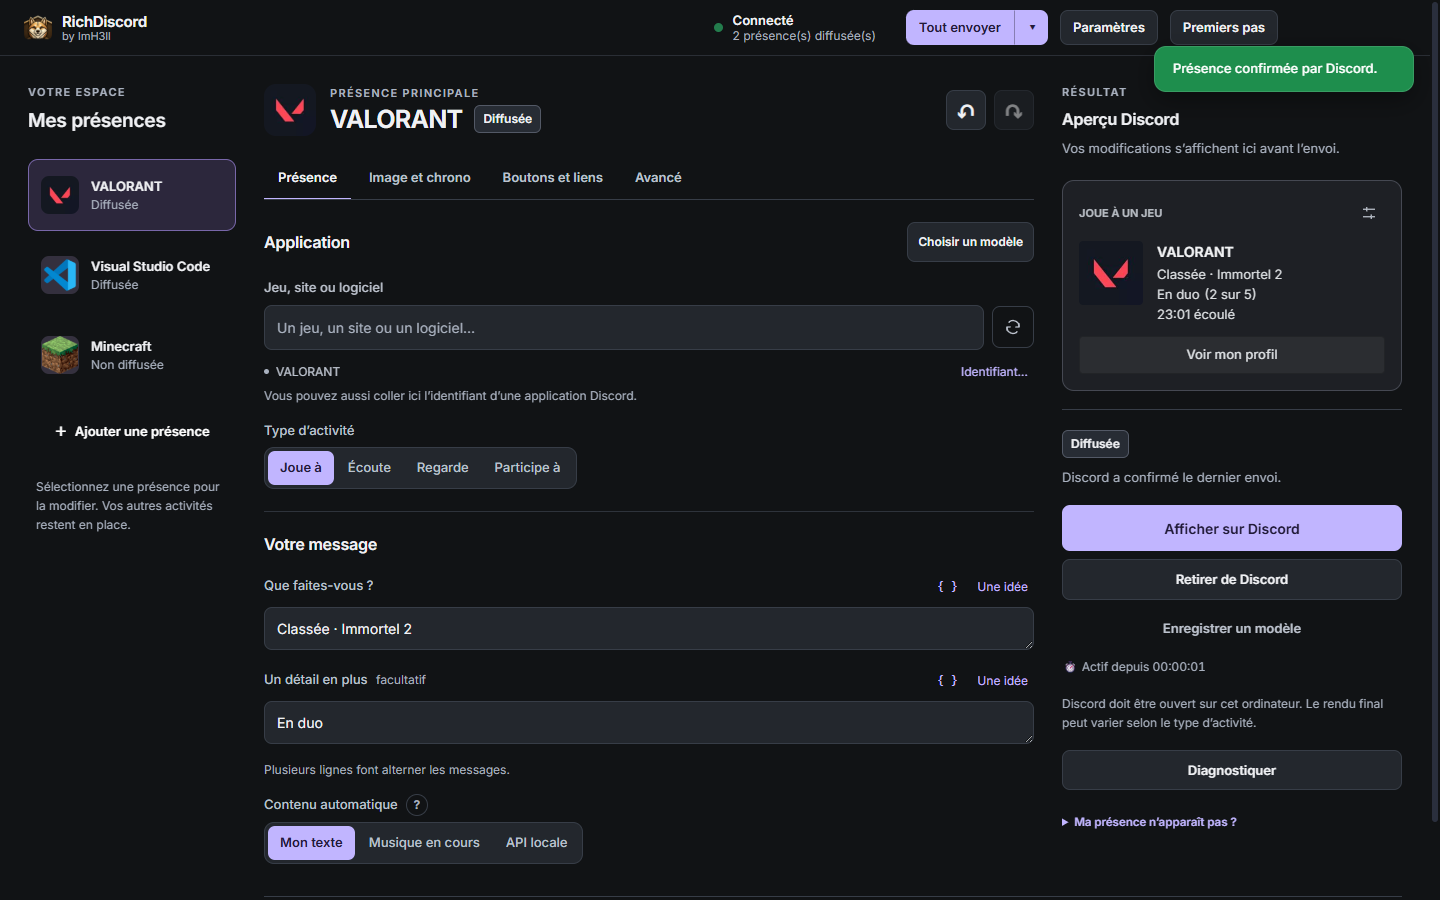
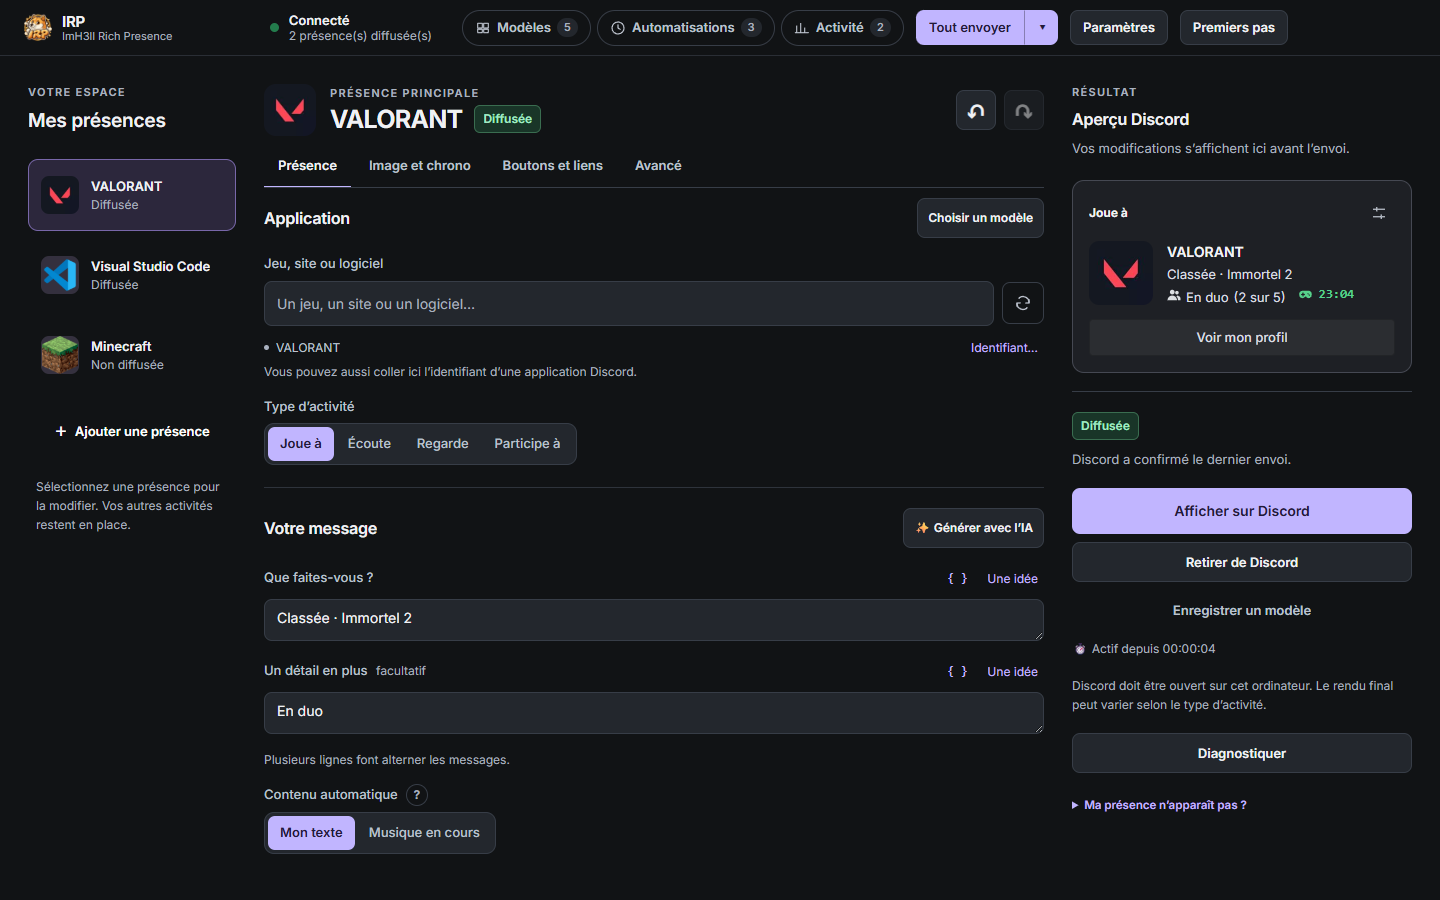
IRP 1.4.0 : nouvelle page de présentation et captures
Nouveau nom et logo, page réécrite (plus de catalogue de services ni de
modèles livrés), captures refaites, extension de navigateur à télécharger.

diff --git a/README.md b/README.md
@@ -1,49 +1,67 @@
 <p align="center">
-  <img src="docs/01-atelier.png" alt="L'atelier de RichDiscord" width="900">
+  <img src="docs/logo.png" alt="Logo IRP" width="180">
 </p>
 
-<h1 align="center">RichDiscord</h1>
+<h1 align="center">IRP — ImH3ll Rich Presence</h1>
 
 <p align="center">
   <b>Composez votre statut Discord comme vous l'imaginez — et pilotez-le depuis votre téléphone.</b><br>
-  Jeux, musique, séries, travail : une présence riche, animée et automatique, sans ligne de code.
+  Jeux, séries, musique, travail : une présence riche, animée et automatique, sans ligne de code.
 </p>
 
 <p align="center">
-  <a href="https://github.com/ImH3ll/RichDiscord-Releases/releases/latest/download/RichDiscord-Setup-1.4.0.exe"><b>⬇ Télécharger pour Windows</b></a>
-  &nbsp;·&nbsp;
-  <a href="https://github.com/ImH3ll/RichDiscord-Releases/releases/latest/download/RichDiscord-Portable-1.4.0.exe">Version portable</a>
+  <a href="https://github.com/ImH3ll/IRP-Releases/releases/latest"><b>⬇ Télécharger pour Windows</b></a>
+  &nbsp;·&nbsp; gratuit &nbsp;·&nbsp; Windows 10/11 &nbsp;·&nbsp; <i>anciennement RichDiscord</i>
+</p>
+
+<p align="center">
+  <img src="docs/00-mode-simple.png" alt="La fenêtre d'IRP en mode simple" width="900">
 </p>
 
 ---
 
 ## Ce que voient vos amis
 
-RichDiscord remplit la carte « Joue à… » de votre profil Discord avec **ce que vous voulez** : le jeu,
-deux lignes de texte, une image, un chrono, la taille de votre groupe et jusqu'à deux boutons cliquables.
+IRP remplit la carte « Joue à… » de votre profil Discord avec **ce que vous voulez** : le jeu, deux lignes
+de texte, une image, un chrono, la taille de votre groupe et jusqu'à deux boutons cliquables.
 
 > **VALORANT**
 > Classée · Immortel 2
 > En duo (2 sur 5) · 23:00 écoulé
 > [ Voir mon profil ]
 
-L'aperçu à droite de l'atelier montre la carte **exactement comme Discord l'affichera**, avant l'envoi.
+L'aperçu à droite montre la carte **exactement comme Discord l'affichera**, avant l'envoi.
+
+---
+
+## ✨ En trois gestes
+
+1. **Cherchez votre jeu** : parmi plus de 24 000 jeux reconnus par Discord, les plus joués en premier.
+   Les fautes et les sigles passent (« gta 5 », « lol », « cs2 »).
+2. **Écrivez votre message**, ou laissez l'**IA** proposer textes, chrono et groupe. Elle s'appuie sur la vraie
+   description du jeu (Steam, Wikipédia) au lieu d'inventer ; relancez jusqu'à ce que ça vous plaise.
+3. **Afficher sur Discord**. C'est tout.
+
+<p align="center"><img src="docs/04-recherche.png" alt="Recherche par sigle « gta 5 »" width="900"></p>
 
 ---
 
 ## 🎮 Plusieurs présences à la fois
 
-Affichez un jeu **et** ce que vous regardez **et** votre musique, en même temps. Chaque présence a son
-propre éditeur ; un double-clic dans la liste l'affiche ou la retire, un clic droit ouvre ses actions.
+Affichez un jeu **et** ce que vous regardez **et** votre musique, en même temps. Chaque présence a son propre
+éditeur ; glissez-les dans la liste pour choisir leur ordre, double-cliquez pour les afficher ou les retirer.
 « Tout envoyer » publie tout d'un coup.
 
 <p align="center"><img src="docs/07-activite.png" alt="Plusieurs présences affichées en même temps, et le temps passé" width="900"></p>
+
+> Discord montre aux autres **les 5 premières présences envoyées** (vous en voyez jusqu'à 99 sur votre
+> profil) : IRP marque les suivantes « toi seul », pour que vous sachiez toujours ce que voient vos amis.
 
 ---
 
 ## 📱 La télécommande : votre statut depuis le téléphone
 
-Paramètres → **Télécommande** → scannez le QR code avec l'appareil photo. C'est tout : **rien à installer**.
+Paramètres → **Télécommande** → scannez le QR code avec l'appareil photo. **Rien à installer.**
 
 <table>
 <tr>
@@ -52,28 +70,29 @@ Paramètres → **Télécommande** → scannez le QR code avec l'appareil photo.
 </tr>
 </table>
 
-- Choisissez un modèle d'un doigt : il s'affiche sur Discord dans la seconde
 - Affichez ou retirez chaque présence, ou tout d'un coup
+- Envoyez un **groupe** de présences d'un seul doigt, réordonnez-les en les faisant glisser
 - **À la maison comme en 4G/5G**
 - **Chiffré de bout en bout** : la clé ne quitte jamais le QR code, le relais ne voit rien passer
 - Ajoutez la page à l'écran d'accueil : elle se comporte comme une app
 
-*Exemple : vous quittez le PC pour la soirée → sur le téléphone, « Tout retirer ». Vous lancez une partie
-chez un ami → touchez « VALORANT ».*
-
 ---
 
-## ✏ Un atelier simple et complet
+## 🧭 Simple par défaut, complet quand vous voulez
 
-Quatre onglets, rien de caché : **Présence**, **Image et chrono**, **Boutons et liens**, **Avancé**.
-Choisir « Écoute », « Regarde » ou « Participe à » se fait d'un clic ; un point rouge signale l'onglet à corriger.
+IRP s'ouvre en **mode simple** : le jeu, le message, l'image, le chrono. Tout le reste attend dans le
+**mode avancé** (Paramètres → Affichage) :
 
-<p align="center"><img src="docs/02-image-chrono.png" alt="Onglet Image et chrono" width="900"></p>
+<p align="center"><img src="docs/01-atelier.png" alt="L'atelier en mode avancé" width="900"></p>
 
 - **Images** : depuis le PC, créées par IA, déjà utilisées, ou celles de l'application en un clic
 - **Chrono** : temps écoulé, compte à rebours, ou barre de progression comme Spotify
-- **Rotation** : écrivez plusieurs lignes, elles défilent toutes seules sur Discord
+- **Boutons et liens cliquables** sur les textes et les images
+- **Rotation** : plusieurs lignes qui défilent, chacune avec sa durée (`❤ {10s}` en fin de ligne) ; images
+  et liens peuvent tourner aussi
 - **Annuler / Rétablir** (Ctrl+Z) et retour à la version affichée sur Discord
+
+<p align="center"><img src="docs/02-image-chrono.png" alt="Onglet Image et chrono" width="900"></p>
 
 ### Des textes vivants avec les variables
 
@@ -89,17 +108,10 @@ Le bouton **{ }** insère une variable, remplacée à chaque envoi :
 | `♪ {titre} — {artiste}` | ♪ Blinding Lights — The Weeknd |
 | `Score : {fichier:score}` | Score : 12 - 4 *(lu dans un fichier, pour OBS ou un jeu)* |
 
----
+### Vos modèles et vos groupes
 
-## 🔎 Plus de 24 000 jeux et 1 272 services
-
-La recherche connaît tous les jeux reconnus par Discord **et** les sites du quotidien : Spotify, Netflix,
-YouTube, Twitch, Disney+… Elle pardonne les fautes (« netflx » trouve Netflix) et règle le bon verbe.
-
-<p align="center"><img src="docs/04-recherche.png" alt="Recherche tolérante aux fautes" width="900"></p>
-
-Et une cinquantaine de **modèles prêts à l'emploi**, à mettre en favori, renommer, dupliquer ou partager
-par un simple code :
+Enregistrez une présence comme **modèle**, ou tout un ensemble comme **groupe** : un clic pour les
+retrouver, à mettre en favori, renommer, dupliquer ou partager par un simple code.
 
 <p align="center"><img src="docs/05-modeles.png" alt="Choisir un modèle" width="900"></p>
 
@@ -118,15 +130,17 @@ par un simple code :
 | **Rotation de profils** | VALORANT ×3, Minecraft ×1 → changement toutes les 5 minutes |
 
 Et aussi : **musique en cours** détectée sous Windows (Spotify, navigateurs, Apple Music…) avec pochette et
-vraie progression, **extension navigateur** pour YouTube et Twitch, **liens `richdiscord://`** pour un
-Stream Deck, retour automatique après une mise en veille.
+vraie progression, **extension de navigateur** pour YouTube et Twitch, **liens `richdiscord://`** pour un
+Stream Deck, retour automatique après une mise en veille. Un guide pas à pas est intégré dans les Paramètres.
 
 ---
 
 ## 🔒 Respect de votre compte et de votre vie privée
 
-- Passe par la fonction officielle de Discord de bureau : **pas de selfbot, pas de jeton de compte**, aucun risque de bannissement lié à l'app
-- Profils, historique et statistiques restent **sur votre PC** ; pas de télémétrie
+- Passe par la fonction officielle de Discord de bureau : **pas de selfbot, pas de jeton de compte**, aucun
+  risque de bannissement lié à l'app
+- Modèles, historique et statistiques restent **sur votre PC** ; pas de télémétrie
+- L'IA ne reçoit que le nom du jeu, jamais vos textes
 - Télécommande désactivée par défaut, chiffrée de bout en bout, révocable en un clic
 - Mises à jour intégrées, vérifiées par empreinte, **installées seulement quand vous le décidez**
 
@@ -134,29 +148,41 @@ Stream Deck, retour automatique après une mise en veille.
 
 ## ⬇ Installer
 
-1. Téléchargez **[RichDiscord-Setup-1.4.0.exe](https://github.com/ImH3ll/RichDiscord-Releases/releases/latest/download/RichDiscord-Setup-1.4.0.exe)** et lancez-le.
+1. Sur la **[page des versions](https://github.com/ImH3ll/IRP-Releases/releases/latest)**, téléchargez
+   **`IRP-Setup-x.y.z.exe`** et lancez-le (ou **`IRP-Portable-x.y.z.exe`** pour une version sans installation).
 2. Ouvrez **Discord de bureau** (l'appli, pas le navigateur).
-3. Choisissez un modèle, personnalisez-le, cliquez sur **Afficher sur Discord**.
+3. Cherchez votre jeu, écrivez votre message, cliquez sur **Afficher sur Discord**.
 
 Windows 10/11 64 bits. L'exécutable n'est pas encore signé : si Windows affiche « Windows a protégé votre
 ordinateur », cliquez sur *Informations complémentaires* → *Exécuter quand même*.
 
+Vous aviez RichDiscord ? Installez IRP par-dessus : vos modèles, groupes et réglages sont conservés.
+
+### Extension de navigateur (facultatif)
+
+Téléchargez **`IRP-Extension-x.y.z.zip`** sur la même page, décompressez-le, puis suivez le guide intégré :
+Paramètres → Intégrations avancées → *Comment ça marche ?*
+
 ### Désinstaller
 
-Paramètres Windows → Applications → RichDiscord → Désinstaller. Le désinstalleur retire aussi le lancement
-au démarrage, les liens `richdiscord://`, le cache des mises à jour, puis **vous demande** s'il faut effacer
-vos profils et réglages (Non = vous les retrouvez en réinstallant).
+Paramètres Windows → Applications → IRP → Désinstaller. Le désinstalleur retire aussi le lancement au
+démarrage, le cache des mises à jour, puis **vous demande** s'il faut effacer vos modèles et réglages
+(Non = vous les retrouvez en réinstallant).
 Version portable : supprimez l'exe, et le dossier `%APPDATA%\RichDiscord` si vous voulez tout effacer.
 
 <details>
 <summary>Empreintes SHA-256 de la 1.4.0</summary>
 
 ```
-9c4a13373f6882479f8ba159dcf58bc878c7535e1b94601e1610a8082f27b4cf  RichDiscord-Setup-1.4.0.exe
-fcc914f63d1cc8e1bf9040bb2254812ebd58ae69edc0f31cb9c838b7f818a121  RichDiscord-Portable-1.4.0.exe
-4e913c1cc9681e41ee7b19cdb14b79ec26576e97d17f7a192e6ccabf79139e96  RichDiscord-Setup-1.4.0.exe.blockmap
-5122f973b6da9391150c715aaca767c4b82156e8d792d9f759fa2ac3f41f2f02  latest.yml
+37aea1b25f0adcd4133312bd37ad1bc96aed3c8b4c25d584b5d9600fc0f8564d  IRP-Setup-1.4.0.exe
+ee533031e872cb442974bb7161fb184499907c41626d3a9d257a0e0d1dd53fa3  IRP-Portable-1.4.0.exe
+5f14ef139059564b03185395a308f55601ba5264e10aa4c3179f9338d324ca41  IRP-Setup-1.4.0.exe.blockmap
+c0a9107eb55b52a60c91df64363e3b7e94d9eee1ba488fd77da5772867d7f347  latest.yml
+cc5ef16fc7a076bde7f29daef4f9868ffa59905693be293f5fe99e45248af026  IRP-Extension-1.4.0.zip
 ```
 </details>
 
-<p align="center"><sub>RichDiscord by ImH3ll · Captures réalisées avec des données de démonstration.</sub></p>
+---
+
+<p align="center"><sub>IRP by ImH3ll · © 2026 ImH3ll, tous droits réservés · gratuit pour un usage personnel ·
+projet indépendant, sans affiliation avec Discord · captures réalisées avec des données de démonstration.</sub></p>
